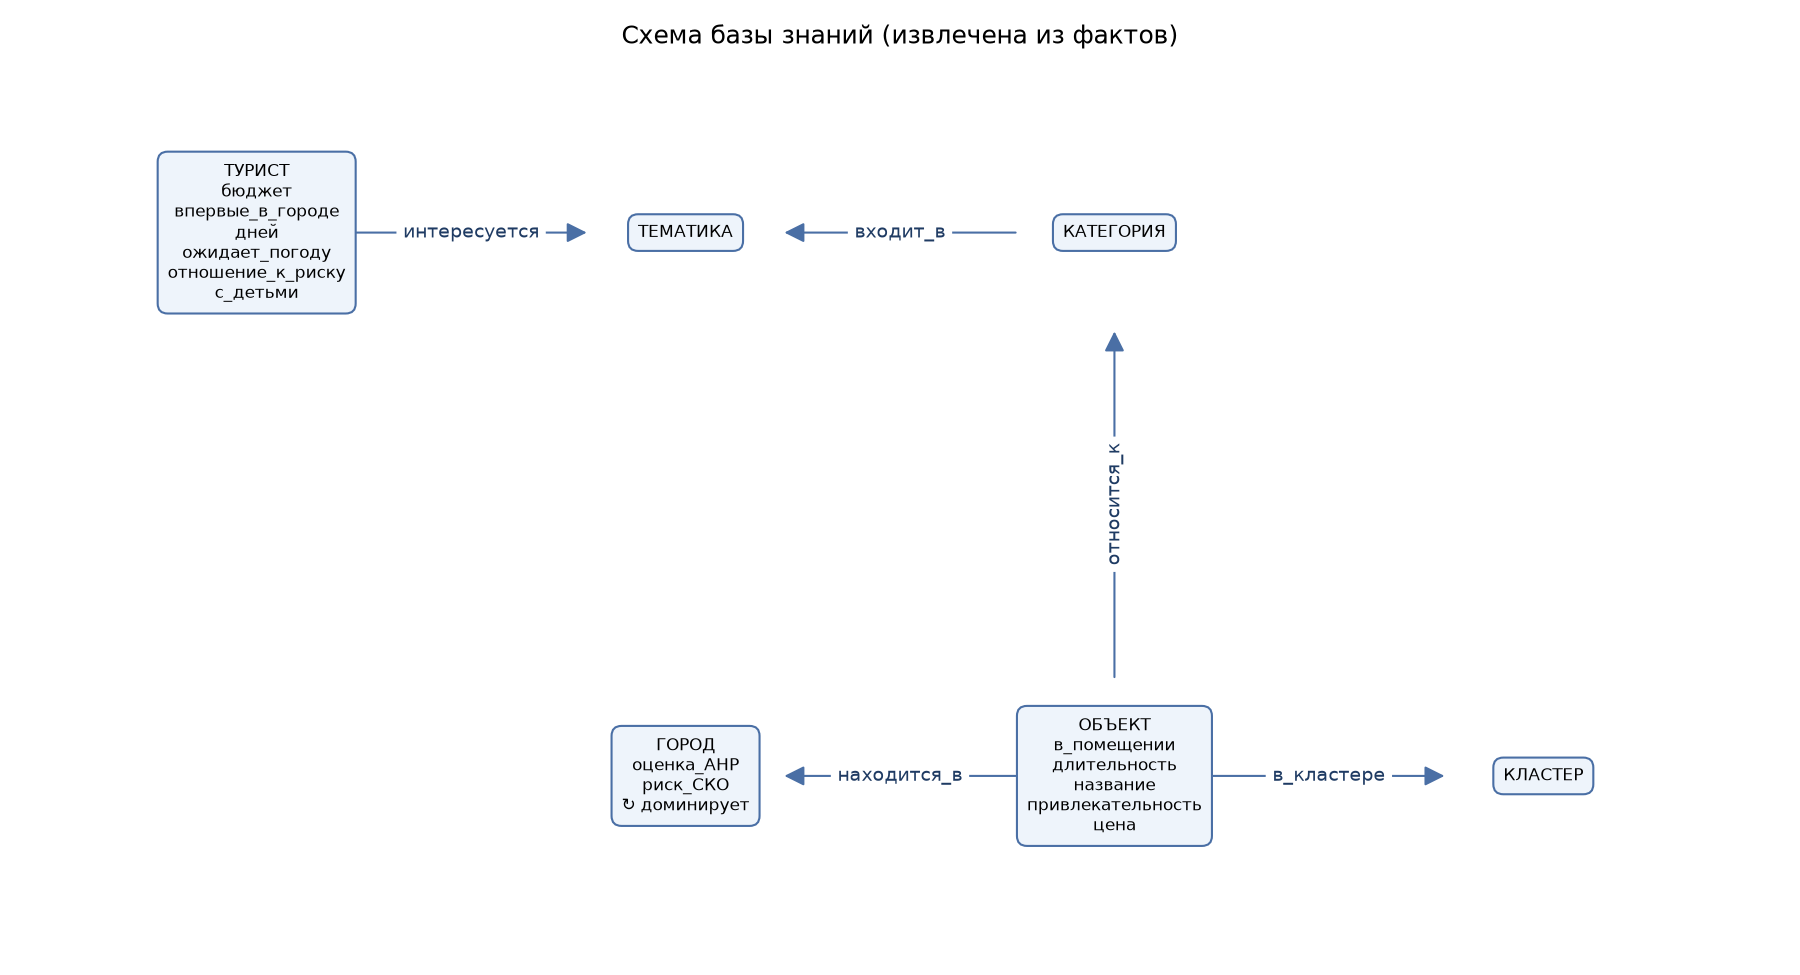
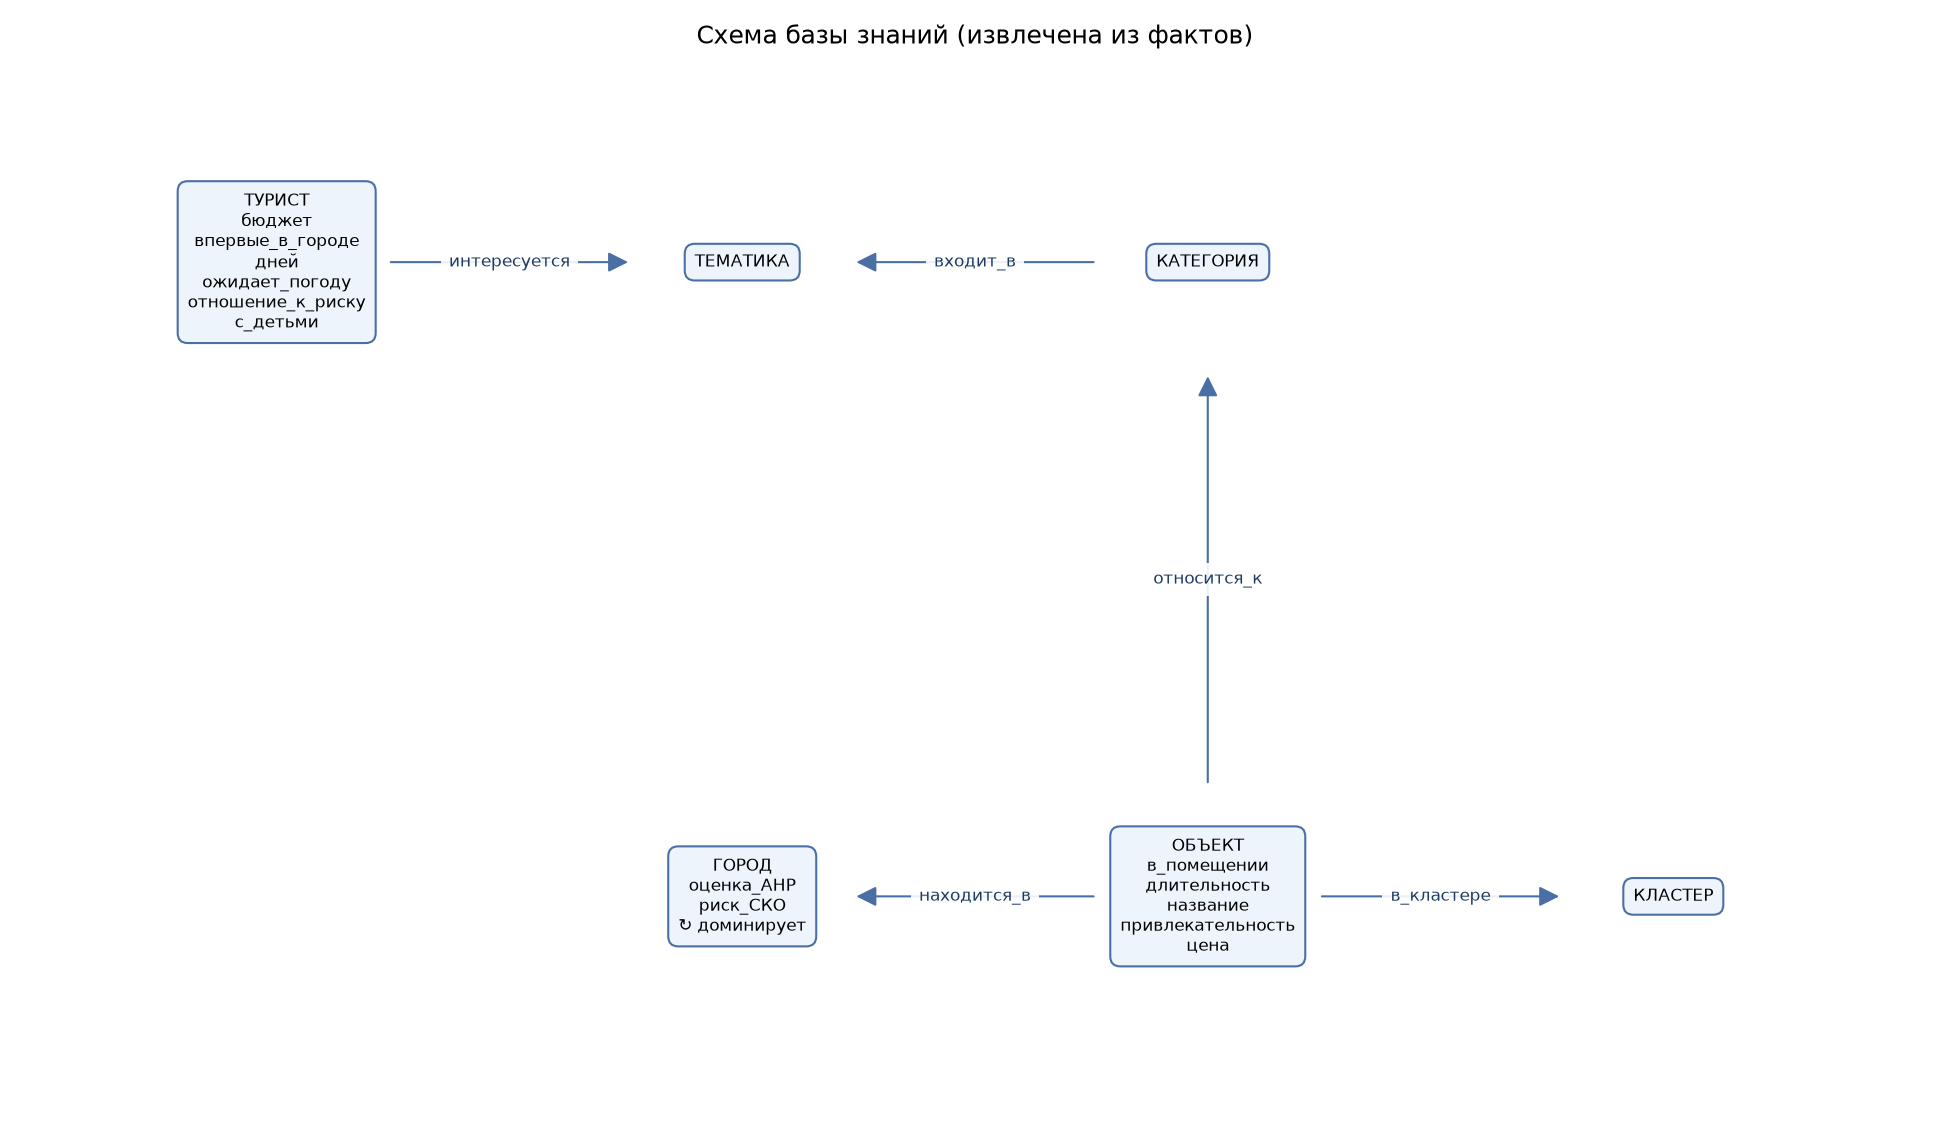
Add explanatory note rule R16, complete stage 5

diff --git a/src/knowledge/schema.py b/src/knowledge/schema.py
@@ -33,42 +33,75 @@ def class_attributes(kb: KnowledgeBase) -> dict:
     return attributes
 
 
-def draw_schema(schema: set, attributes: dict, path) -> None:
-    """Рисует схему: классы - прямоугольники с атрибутами, связи - стрелки"""
+def draw_schema(schema: set, attributes: dict, path,
+                title: str = "Схема базы знаний (извлечена из фактов)",
+                derived: set | None = None) -> None:
+    """
+    Рисует схему: классы - прямоугольники с атрибутами, связи - стрелки
+    derived - отношения, выведенные правилами: такие связи рисуются
+    пунктиром, а атрибуты помечаются звездочкой
+    """
+    derived = derived or set()
     graph = nx.DiGraph()
     loops = {}
-    for source, relation, target in schema:
+    for source, relation, target in sorted(schema):
         if source == target:
             loops.setdefault(source, []).append(relation)
+        elif graph.has_edge(source, target):
+            graph[source][target]["relations"].append(relation)
         else:
-            graph.add_edge(source, target, label=relation)
+            graph.add_edge(source, target, relations=[relation])
+
     graph.add_nodes_from(loops)
+    for node in attributes:
+        if node in graph or attributes[node]:
+            graph.add_node(node)
 
     positions = {
         "Турист": (0, 2), "Тематика": (2, 2), "Категория": (4, 2),
         "Город": (2, 0), "Объект": (4, 0), "Кластер": (6, 0),
     }
+
+    def mark(relation):
+        return relation + ("*" if relation in derived else "")
+
     labels = {}
     for node in graph.nodes:
         text = node.upper()
         if attributes.get(node):
-            text += "\n" + "\n".join(sorted(attributes[node]))
+            text += "\n" + "\n".join(mark(a) for a in sorted(attributes[node]))
         if loops.get(node):
-            text += "\n↻ " + ", ".join(loops[node])
+            text += "\n↻ " + ", ".join(mark(r) for r in loops[node])
         labels[node] = text
 
-    plt.figure(figsize=(12, 6.5))
-    nx.draw_networkx_edges(graph, positions, arrows=True, arrowsize=20,
-                           node_size=9000, edge_color="#4a6fa5")
+    base_edges, derived_edges = [], []
+    for u, v, data in graph.edges(data=True):
+        if all(r in derived for r in data["relations"]):
+            derived_edges.append((u, v))
+        else:
+            base_edges.append((u, v))
+
+    plt.figure(figsize=(13, 7.5))
+    nx.draw_networkx_edges(graph, positions, edgelist=base_edges, arrows=True,
+                           arrowsize=20, node_size=12000, edge_color="#4a6fa5")
+    nx.draw_networkx_edges(graph, positions, edgelist=derived_edges,
+                           arrows=True, arrowsize=20, node_size=12000,
+                           edge_color="#c0392b", style="dashed")
+    edge_labels = {(u, v): "\n".join(d["relations"])
+                   for u, v, d in graph.edges(data=True)}
     nx.draw_networkx_edge_labels(
-        graph, positions, nx.get_edge_attributes(graph, "label"),
-        font_size=9, font_color="#1f3b63",
+        graph, positions, edge_labels, font_size=8, rotate=False,
+        font_color="#1f3b63", bbox=dict(fc="white", ec="none", alpha=0.9),
     )
     nx.draw_networkx_labels(
         graph, positions, labels, font_size=8,
         bbox=dict(boxstyle="round,pad=0.6", fc="#eef4fb", ec="#4a6fa5"),
     )
-    plt.title("Схема базы знаний (извлечена из фактов)")
+    if derived:
+        plt.figtext(0.5, 0.03, "Пунктир и * — отношения и атрибуты, "
+                    "выведенные продукционными правилами",
+                    ha="center", fontsize=9, color="#c0392b")
+    plt.title(title)
     plt.margins(x=0.12, y=0.25)
     plt.axis("off")
     plt.tight_layout()

diff --git a/src/knowledge/profiles_report.py b/src/knowledge/profiles_report.py
@@ -1,0 +1,84 @@
+import pandas as pd
+from src.knowledge.facts import TEST_PROFILES, TOURIST, build_knowledge_base
+from src.knowledge.inference import explain, forward_chain, objects_with
+from src.knowledge.rules import RULES
+from src.knowledge.schema import (
+    FIGURES_DIR,
+    class_attributes,
+    draw_schema,
+    extract_schema,
+)
+
+DEFAULT_MEALS_PER_DAY = 1   # умолчание, если правила не вывели другое
+
+
+def tourist_value(kb, relation, default=None):
+    """Значение атрибута туриста, выведенное правилами (или умолчание)"""
+    found = kb.query([(TOURIST, relation, "?v")])
+    return found[0]["?v"] if found else default
+
+
+def run_profile(profile: dict):
+    """Строит базу знаний для профиля и выполняет прямой вывод"""
+    kb = build_knowledge_base(profile)
+    explanations, log = forward_chain(kb, RULES)
+    return kb, explanations, log
+
+
+if __name__ == "__main__":
+    pd.set_option("display.width", 200)
+    rules_by_name = {rule.name: rule for rule in RULES}
+
+    rows = {}
+    details = {}
+    results = {}
+    for name, profile in TEST_PROFILES.items():
+        kb, explanations, log = run_profile(profile)
+        results[name] = (kb, explanations)
+        fired = sorted({r for counter in log for r in counter},
+                       key=lambda r: int(r[1:]))
+        details[name] = {
+            "Рекомендованы": objects_with(kb, "рекомендован"),
+            "Обязательно к посещению": objects_with(kb, "обязательно_к_посещению"),
+            "Только при хорошей погоде": objects_with(
+                kb, "рекомендован_при_хорошей_погоде"),
+            "Приоритет для семьи": objects_with(kb, "приоритет_для_семьи"),
+        }
+        rows[name] = {
+            "Выведено фактов": len(explanations),
+            "Итераций": len(log),
+            "Сработали правила": ", ".join(fired),
+            **{key: len(value) for key, value in details[name].items()},
+            "Приемов пищи в день": tourist_value(
+                kb, "приемов_пищи_в_день", DEFAULT_MEALS_PER_DAY),
+            "Критерий выбора направления": tourist_value(
+                kb, "критерий_выбора_направления"),
+        }
+
+    print("Сравнение результатов вывода для трех профилей:")
+    print(pd.DataFrame(rows).to_string())
+    print()
+
+    for name, groups in details.items():
+        print(f"=== {name} ===")
+        for title, names in groups.items():
+            if names:
+                print(f"  {title} ({len(names)}): " + "; ".join(names))
+        print()
+
+    kb, explanations = results["Семья с детьми"]
+    print("Объяснение: почему Кремлевская набережная для семьи - "
+          "только при хорошей погоде")
+    for line in explain(("embankment", "рекомендован_при_хорошей_погоде",
+                         TOURIST), explanations, rules_by_name):
+        print(line)
+    print()
+
+    FIGURES_DIR.mkdir(parents=True, exist_ok=True)
+    schema = extract_schema(kb)
+    draw_schema(schema, class_attributes(kb),
+                FIGURES_DIR / "kb_schema_inferred.png",
+                title="Схема базы знаний после логического вывода",
+                derived={fact[1] for fact in explanations})
+    print("Схема с выведенными отношениями сохранена в "
+          f"{FIGURES_DIR / 'kb_schema_inferred.png'}")

diff --git a/src/knowledge/rules.py b/src/knowledge/rules.py
@@ -90,6 +90,11 @@ RULES = [
     Rule("R15", "Туристу-оптимисту - критерий Гурвица с α = 0.8",
          [(T, "отношение_к_риску", "оптимист")],
          [(T, "критерий_выбора_направления", "Гурвиц (α = 0.8)")]),
+    Rule("R16", "Приоритетный для семьи объект с невысокой привлекательностью "
+                "получает примечание для пользователя",
+         [("?o", "приоритет_для_семьи", T), ("?o", "привлекательность", "?a")],
+         [("?o", "примечание", "подходит семье, но оценки посетителей невысокие")],
+         test=lambda v: v["?a"] < MIN_RECOMMENDED_ATTRACTIVENESS),
 ]
 
 
